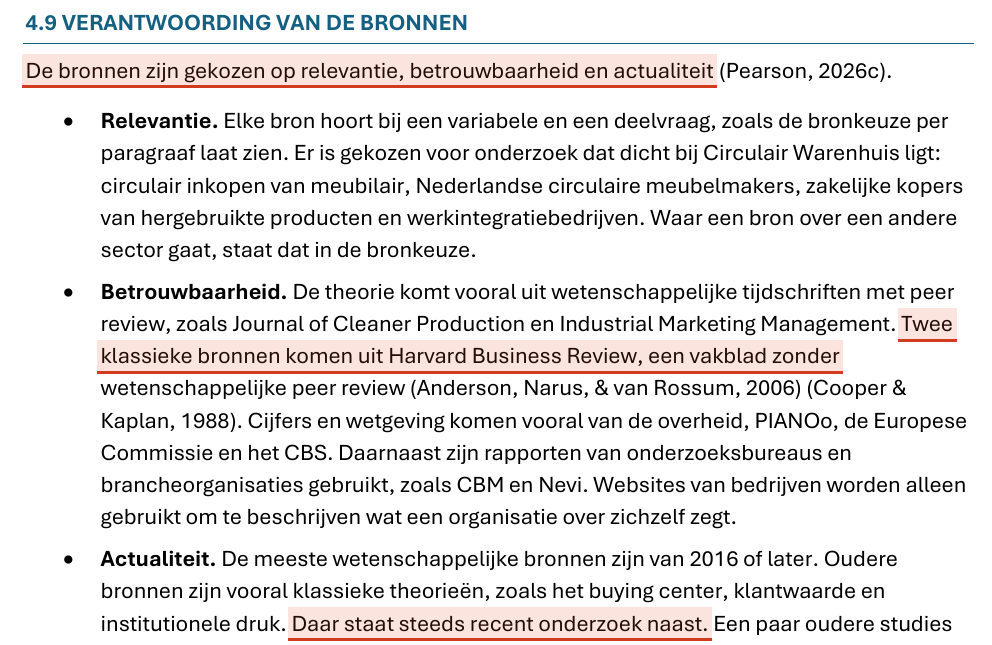
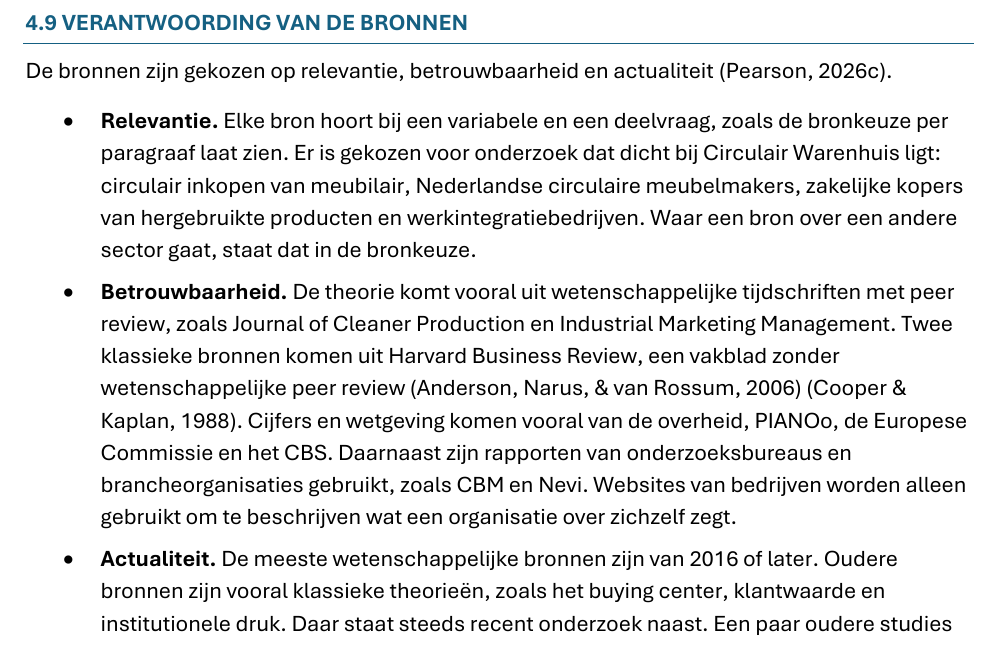
Bewijs: rode markeringen weggehaald uit uitsnedes
Claude-Session: https://claude.ai/code/session_01FTmRrKCbLPthKnYuQiU1TZ

diff --git a/verdieping-01.html b/verdieping-01.html
@@ -74,7 +74,7 @@
   <p>Ik kan de rode draad door het hele onderzoek uitleggen. In de aanleiding en de probleemanalyse staat dat klanten de expertise van Circulair Warenhuis niet zien: in 2025 werd 13.643 kilo hergebruikt materiaal verwerkt, maar bij de 22 projecten op de website staat geen enkel impactcijfer. Daarom is meetbare resultaten laten zien een van de vier kenmerken van een circulaire expert, staat bewijs van impact als variabele in het model met de signaaltheorie erachter, en vragen de interviews welk bewijs zakelijke klanten overtuigt. <a class="ref" href="#bewijs-2">(zie Bewijs 2)</a> <a class="ref" href="#bewijs-4">(zie Bewijs 4)</a> <a class="ref" href="#bewijs-5">(zie Bewijs 5)</a></p>
   <p>Ook kan ik toelichten waarom de branche zo is afgebakend, waarom ik tegenvallende trends opnam, waarom de oorzaken hypothesen zijn en hoe de begrippenlijst de adviesvraag meetbaar maakte. <a class="ref" href="#bewijs-1">(zie Bewijs 1)</a> <a class="ref" href="#bewijs-3">(zie Bewijs 3)</a></p>
 </div></section>
-</div><h2 class="block-title" id="mijn-bewijs">Mijn bewijs</h2><p class="block-lede">De rode markeringen zijn van mij: daar staat waar het om gaat. Geel is in het document zelf gemarkeerd als aangepast na feedback.</p><div class="evidence" id="bewijs-1">
+</div><h2 class="block-title" id="mijn-bewijs">Mijn bewijs</h2><p class="block-lede">Geel gemarkeerde tekst is in het document zelf aangepast na feedback.</p><div class="evidence" id="bewijs-1">
   <div class="evidence__claim"><span class="evidence__label">Claim</span><blockquote>“Ik heb alleen trends opgenomen met cijfers over meerdere jaren, en bij elke trend staat wat die betekent voor Circulair Warenhuis.”</blockquote></div>
   <div class="evidence__body">
     <div class="evidence__head"><span class="evidence__num">Bewijs 1</span><span class="tag">Stap 1 · situatieschets hoofdstuk 3 (mijn deel)</span></div>
